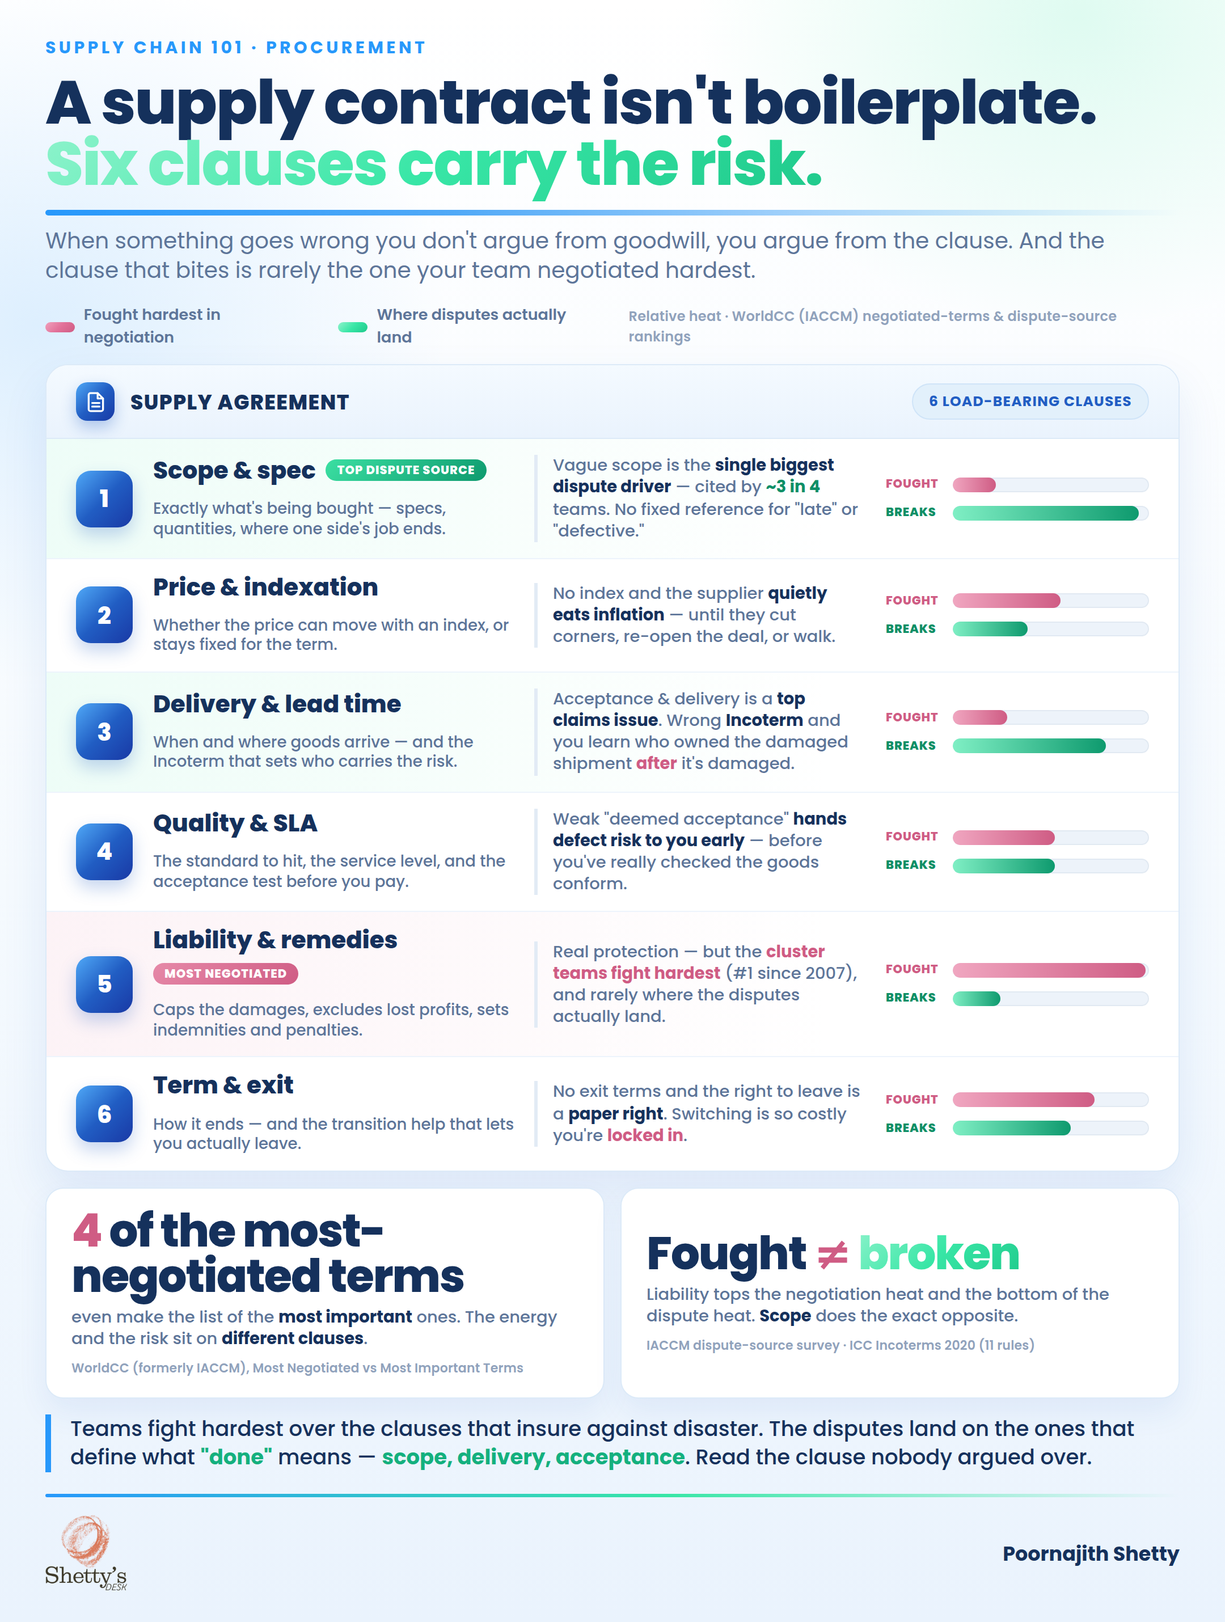
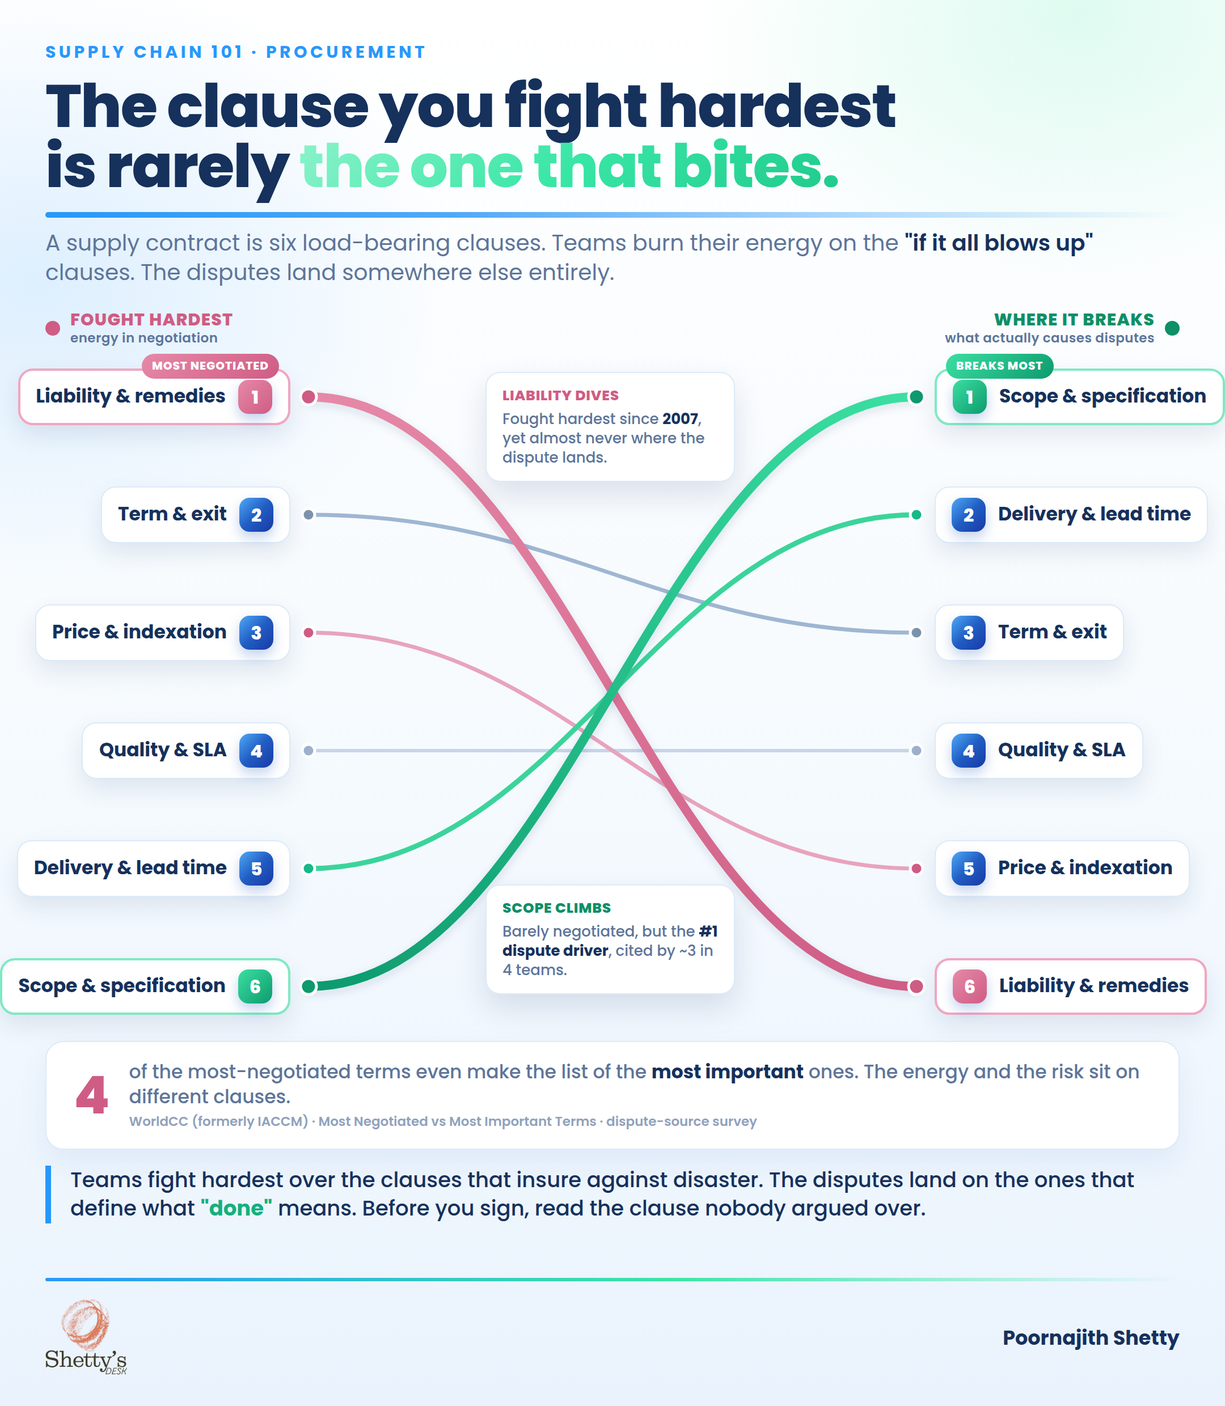
101 (W27) supply-contract-clauses: redesign visual as a slope diagram
Replace the table-style clause card with a slope/bump diagram: clauses
ranked by negotiation energy (left) vs dispute frequency (right), with
crossing connectors. Liability dives top-to-bottom; Scope climbs
bottom-to-top, making the negotiate-vs-dispute mismatch the visual hero.
Tightened canvas height to remove dead whitespace.

Claude-Session: https://claude.ai/code/session_01Fh9kTdpkMjiBvBr1iVa98w

Changed region(s): [[0.0, 0.0, 1.0, 0.9935]]

diff --git a/infographic-setup/renderer/templates/sc101-supply-contract-clauses.html b/infographic-setup/renderer/templates/sc101-supply-contract-clauses.html
@@ -5,9 +5,10 @@
 <link rel="stylesheet" href="../assets/fonts.css">
 <!--
   Supply Chain 101 · W27 (RW02) Post 1 — "What's in a supply contract: the 6 clauses that decide the relationship"
-  Contrarian: a supply contract is not boilerplate; the clause that bites is rarely the one you negotiated hardest.
-  Hero = a 6-clause contract map. Each clause carries two heat bars — Fought (coral) vs Breaks (green) — so the
-  negotiate-vs-dispute MISMATCH is the visual. No AI-tool logo (101). Shetty's Desk brand frame, luminous on white.
+  NEW FRAME (v2): a SLOPE / bump diagram. Left axis = clauses ranked by how hard teams negotiate them;
+  right axis = clauses ranked by how often they actually cause disputes. The connectors CROSS — Liability
+  dives top→bottom (coral), Scope climbs bottom→top (green). The crossing IS the contrarian thesis.
+  No AI-tool logo (101). Shetty's Desk brand frame, luminous on white.
 -->
 <style>
   :root{
@@ -22,80 +23,65 @@
   *{margin:0;padding:0;box-sizing:border-box}
   html,body{width:1080px}
   #card{
-    width:1080px;height:1430px;position:relative;overflow:hidden;
+    width:1080px;height:1240px;position:relative;overflow:hidden;
     font-family:"Poppins",system-ui,sans-serif;color:var(--ink);
     background:
       radial-gradient(ellipse 52% 32% at 88% 1%, rgba(56,230,166,.16) 0%, transparent 60%),
       radial-gradient(ellipse 58% 38% at 3% 20%, rgba(39,152,251,.14) 0%, transparent 58%),
       linear-gradient(180deg,#FFFFFF 0%,#F5FAFE 55%,#EAF3FD 100%);
-    padding:30px 40px 24px;display:flex;flex-direction:column;
+    padding:34px 40px 24px;display:flex;flex-direction:column;
   }
   .kicker{font-size:15px;font-weight:700;letter-spacing:.18em;text-transform:uppercase;color:var(--azure)}
-  h1{font-size:54px;font-weight:800;line-height:1.0;margin-top:10px;letter-spacing:-1px;color:var(--ink)}
+  h1{font-size:53px;font-weight:800;line-height:1.0;margin-top:10px;letter-spacing:-1px;color:var(--ink)}
   h1 .g{background:var(--eco-grad);-webkit-background-clip:text;background-clip:text;color:transparent}
   .rule{height:5px;width:100%;margin:14px 0 10px;border-radius:5px;
     background:linear-gradient(90deg,var(--azure) 0%,var(--sky) 36%,rgba(80,169,247,0) 100%)}
   .sub{font-size:19.5px;font-weight:400;color:var(--muted);max-width:1000px;line-height:1.34}
   .sub b{color:var(--ink);font-weight:600}
 
-  /* legend for the two heat bars */
-  .legend{display:flex;align-items:center;gap:22px;margin-top:16px;font-size:13.5px;font-weight:600;color:var(--muted)}
-  .legend .it{display:flex;align-items:center;gap:8px}
-  .legend .sw{width:26px;height:9px;border-radius:5px}
-  .legend .sw.f{background:var(--coral-grad)} .legend .sw.b{background:var(--eco-grad)}
-  .legend .src{margin-left:auto;font-size:12px;font-weight:600;color:#90A2BC;letter-spacing:.01em}
+  /* column headers above the slope */
+  .axhead{display:flex;justify-content:space-between;margin-top:20px}
+  .axhead .ax{display:flex;align-items:center;gap:9px}
+  .axhead .ax .dot{width:13px;height:13px;border-radius:50%}
+  .axhead .ax .t{font-size:15px;font-weight:800;letter-spacing:.04em;text-transform:uppercase;line-height:1.05}
+  .axhead .ax .t small{display:block;font-size:11.5px;font-weight:600;letter-spacing:.02em;text-transform:none;color:var(--muted);margin-top:2px}
+  .axhead .lft .dot{background:var(--coral-deep)} .axhead .lft .t{color:var(--coral-deep)}
+  .axhead .rgt{text-align:right;flex-direction:row-reverse}
+  .axhead .rgt .dot{background:var(--eco-deep)} .axhead .rgt .t{color:var(--eco-deep)}
 
-  /* the contract document card */
-  .doc{margin-top:13px;background:#fff;border:1px solid var(--line);border-radius:20px;
-    box-shadow:0 18px 40px rgba(33,93,195,.10);overflow:hidden;display:flex;flex-direction:column}
-  .dochead{display:flex;align-items:center;gap:14px;padding:15px 26px;
-    background:linear-gradient(180deg,#F4FAFF,#EAF3FD);border-bottom:1px solid var(--line)}
-  .dochead .fi{width:34px;height:34px;border-radius:10px;background:var(--blue-grad);flex:0 0 auto;
-    display:flex;align-items:center;justify-content:center;box-shadow:0 6px 13px rgba(33,93,195,.30)}
-  .dochead .fi svg{width:19px;height:19px;color:#fff}
-  .dochead .dt{font-size:18px;font-weight:800;letter-spacing:.04em;text-transform:uppercase;color:var(--ink)}
-  .dochead .dtag{margin-left:auto;font-size:12.5px;font-weight:700;letter-spacing:.05em;text-transform:uppercase;
-    color:var(--deep);background:var(--tint);border:1px solid #CFE4F8;border-radius:999px;padding:6px 14px}
+  /* slope diagram */
+  .slope{position:relative;width:1000px;height:600px;margin-top:6px}
+  .slope svg{position:absolute;inset:0;width:100%;height:100%;overflow:visible}
+  .node{position:absolute;height:50px;display:flex;align-items:center;gap:11px;
+    background:#fff;border:1px solid var(--line);border-radius:13px;padding:0 14px;
+    box-shadow:0 9px 20px rgba(20,50,100,.10);transform:translateY(-50%)}
+  .node.L{justify-content:flex-end;text-align:right}
+  .node .rk{width:30px;height:30px;border-radius:9px;flex:0 0 auto;display:flex;align-items:center;justify-content:center;
+    font-size:16px;font-weight:800;color:#fff;background:var(--blue-grad);box-shadow:0 5px 11px rgba(33,93,195,.28)}
+  .node .nm{font-size:16.5px;font-weight:700;color:var(--ink);line-height:1.05;white-space:nowrap}
+  .node.hot{border-width:2px}
+  .node.coral{border-color:#F0A6C0} .node.coral .rk{background:linear-gradient(135deg,#E689A8,#cf5c84)}
+  .node.green{border-color:#7FE9C2} .node.green .rk{background:linear-gradient(135deg,#3BDFA2,#0E9A6E)}
+  .node .tag{position:absolute;top:-15px;font-size:10px;font-weight:800;letter-spacing:.05em;text-transform:uppercase;
+    padding:3px 9px;border-radius:999px;color:#fff;white-space:nowrap}
+  .node.coral .tag{background:linear-gradient(135deg,#E689A8,#cf5c84);right:8px}
+  .node.green .tag{background:linear-gradient(135deg,#3BDFA2,#0E9A6E);left:8px}
 
-  .row{display:grid;grid-template-columns:50px 1.42fr 1.30fr 232px;align-items:center;gap:18px;
-    padding:14px 26px;border-bottom:1px solid #EDF4FC;position:relative}
-  .row:last-child{border-bottom:none}
-  .row.hot-b{background:linear-gradient(90deg,rgba(56,230,166,.085),rgba(56,230,166,0) 70%)}
-  .row.hot-f{background:linear-gradient(90deg,rgba(226,113,153,.085),rgba(226,113,153,0) 70%)}
+  /* story callout chips sitting near the crossing */
+  .chip{position:absolute;width:220px;background:#fff;border:1px solid var(--line);border-radius:13px;
+    box-shadow:0 12px 26px rgba(20,50,100,.13);padding:11px 14px;z-index:6}
+  .chip .ch{font-size:12.5px;font-weight:800;letter-spacing:.03em;text-transform:uppercase;margin-bottom:3px}
+  .chip p{font-size:13px;font-weight:500;color:var(--muted);line-height:1.32}
+  .chip p b{color:var(--ink);font-weight:700}
+  .chip.c .ch{color:var(--coral-deep)} .chip.g .ch{color:var(--eco-deep)}
 
-  .sec{width:50px;height:50px;border-radius:13px;display:flex;align-items:center;justify-content:center;
-    font-size:21px;font-weight:800;color:#fff;background:var(--blue-grad);box-shadow:0 7px 15px rgba(33,93,195,.26)}
-  .nm{font-size:21px;font-weight:800;color:var(--ink);line-height:1.05;display:flex;align-items:center;gap:9px;flex-wrap:wrap}
-  .nm .fn{display:block;font-size:13.8px;font-weight:500;color:var(--muted);margin-top:5px;line-height:1.28;letter-spacing:0}
-  .pill{font-size:10.5px;font-weight:800;letter-spacing:.05em;text-transform:uppercase;border-radius:999px;
-    padding:4px 10px;white-space:nowrap}
-  .pill.f{color:#fff;background:linear-gradient(135deg,#E689A8,#cf5c84)}
-  .pill.b{color:#fff;background:linear-gradient(135deg,#3BDFA2,#0E9A6E)}
-
-  .bite{font-size:14.5px;font-weight:500;color:var(--muted);line-height:1.32;padding-left:13px;
-    border-left:3px solid #E2EBF5}
-  .bite b{color:var(--ink);font-weight:700} .bite .px{color:var(--coral-deep);font-weight:700}
-  .bite .gx{color:var(--eco-deep);font-weight:700}
-
-  .meters{display:flex;flex-direction:column;gap:9px}
-  .meter{display:flex;align-items:center;gap:9px}
-  .meter .ml{font-size:10.5px;font-weight:800;letter-spacing:.04em;text-transform:uppercase;width:50px;flex:none}
-  .meter.f .ml{color:var(--coral-deep)} .meter.b .ml{color:var(--eco-deep)}
-  .track{flex:1;height:13px;border-radius:7px;background:#EDF3FA;overflow:hidden;box-shadow:inset 0 0 0 1px rgba(20,50,100,.05)}
-  .fill{height:100%;border-radius:7px}
-  .fill.f{background:linear-gradient(90deg,#F0A6C0,#cf5c84)}
-  .fill.b{background:linear-gradient(90deg,#7FEFC4,#0E9A6E)}
-
-  /* the contrarian payoff band */
-  .payoff{margin-top:14px;display:grid;grid-template-columns:1fr 1fr;gap:14px}
-  .stat{background:#fff;border:1px solid var(--line);border-radius:16px;padding:17px 22px;
-    box-shadow:0 12px 26px rgba(33,93,195,.08);display:flex;flex-direction:column;justify-content:center}
-  .stat .big{font-size:40px;font-weight:800;line-height:1;letter-spacing:-1px;color:var(--ink)}
-  .stat .big .g{background:var(--eco-grad);-webkit-background-clip:text;background-clip:text;color:transparent}
-  .stat .big .c{color:var(--coral-deep)}
-  .stat .cap{font-size:14.5px;font-weight:500;color:var(--muted);line-height:1.3;margin-top:7px}
-  .stat .cap b{color:var(--ink);font-weight:700}
-  .stat .src{font-size:11px;font-weight:600;color:#90A2BC;margin-top:8px;letter-spacing:.01em}
+  /* stat + insight */
+  .stat{margin-top:8px;display:flex;align-items:center;gap:18px;background:#fff;border:1px solid var(--line);
+    border-radius:16px;padding:16px 24px;box-shadow:0 12px 26px rgba(33,93,195,.08)}
+  .stat .big{font-size:46px;font-weight:800;line-height:1;letter-spacing:-1px;color:var(--coral-deep);flex:0 0 auto}
+  .stat .tx{font-size:16.5px;font-weight:500;color:var(--muted);line-height:1.3}
+  .stat .tx b{color:var(--ink);font-weight:700}
+  .stat .src{display:block;font-size:11.5px;font-weight:600;color:#90A2BC;margin-top:4px}
 
   .insight{margin-top:14px;font-size:18.5px;font-weight:500;color:var(--ink);line-height:1.38;padding-left:17px;
     border-left:5px solid var(--azure)}
@@ -111,104 +97,24 @@
 <body>
 <div id="card">
   <div class="kicker">Supply Chain 101 · Procurement</div>
-  <h1>A supply contract isn't boilerplate.<br><span class="g">Six clauses carry the risk.</span></h1>
+  <h1>The clause you fight hardest<br>is rarely <span class="g">the one that bites.</span></h1>
   <div class="rule"></div>
-  <div class="sub">When something goes wrong you don't argue from goodwill, you argue from the clause. And the clause that bites is rarely the one your team negotiated hardest.</div>
+  <div class="sub">A supply contract is six load-bearing clauses. Teams burn their energy on the <b>"if it all blows up"</b> clauses. The disputes land somewhere else entirely.</div>
 
-  <div class="legend">
-    <div class="it"><span class="sw f"></span>Fought hardest in negotiation</div>
-    <div class="it"><span class="sw b"></span>Where disputes actually land</div>
-    <span class="src">Relative heat · WorldCC (IACCM) negotiated-terms &amp; dispute-source rankings</span>
+  <div class="axhead">
+    <div class="ax lft"><span class="dot"></span><span class="t">Fought hardest<small>energy in negotiation</small></span></div>
+    <div class="ax rgt"><span class="dot"></span><span class="t">Where it breaks<small>what actually causes disputes</small></span></div>
   </div>
 
-  <div class="doc">
-    <div class="dochead">
-      <span class="fi"><svg viewBox="0 0 24 24" fill="none" stroke="currentColor" stroke-width="2.1" stroke-linecap="round" stroke-linejoin="round"><path d="M14 2H6a2 2 0 0 0-2 2v16a2 2 0 0 0 2 2h12a2 2 0 0 0 2-2V8z"/><path d="M14 2v6h6"/><path d="M8 13h8"/><path d="M8 17h8"/></svg></span>
-      <span class="dt">Supply Agreement</span>
-      <span class="dtag">6 load-bearing clauses</span>
-    </div>
+  <div class="slope" id="slope"></div>
 
-    <div class="row hot-b">
-      <div class="sec">1</div>
-      <div class="nm">Scope &amp; spec <span class="pill b">Top dispute source</span>
-        <span class="fn">Exactly what's being bought — specs, quantities, where one side's job ends.</span></div>
-      <div class="bite">Vague scope is the <b>single biggest dispute driver</b> — cited by <span class="gx">~3 in 4</span> teams. No fixed reference for "late" or "defective."</div>
-      <div class="meters">
-        <div class="meter f"><span class="ml">Fought</span><div class="track"><div class="fill f" style="width:22%"></div></div></div>
-        <div class="meter b"><span class="ml">Breaks</span><div class="track"><div class="fill b" style="width:95%"></div></div></div>
-      </div>
-    </div>
-
-    <div class="row">
-      <div class="sec">2</div>
-      <div class="nm">Price &amp; indexation
-        <span class="fn">Whether the price can move with an index, or stays fixed for the term.</span></div>
-      <div class="bite">No index and the supplier <b>quietly eats inflation</b> — until they cut corners, re-open the deal, or walk.</div>
-      <div class="meters">
-        <div class="meter f"><span class="ml">Fought</span><div class="track"><div class="fill f" style="width:55%"></div></div></div>
-        <div class="meter b"><span class="ml">Breaks</span><div class="track"><div class="fill b" style="width:38%"></div></div></div>
-      </div>
-    </div>
-
-    <div class="row hot-b">
-      <div class="sec">3</div>
-      <div class="nm">Delivery &amp; lead time
-        <span class="fn">When and where goods arrive — and the Incoterm that sets who carries the risk.</span></div>
-      <div class="bite">Acceptance &amp; delivery is a <b>top claims issue</b>. Wrong <b>Incoterm</b> and you learn who owned the damaged shipment <span class="px">after</span> it's damaged.</div>
-      <div class="meters">
-        <div class="meter f"><span class="ml">Fought</span><div class="track"><div class="fill f" style="width:28%"></div></div></div>
-        <div class="meter b"><span class="ml">Breaks</span><div class="track"><div class="fill b" style="width:78%"></div></div></div>
-      </div>
-    </div>
-
-    <div class="row">
-      <div class="sec">4</div>
-      <div class="nm">Quality &amp; SLA
-        <span class="fn">The standard to hit, the service level, and the acceptance test before you pay.</span></div>
-      <div class="bite">Weak "deemed acceptance" <b>hands defect risk to you early</b> — before you've really checked the goods conform.</div>
-      <div class="meters">
-        <div class="meter f"><span class="ml">Fought</span><div class="track"><div class="fill f" style="width:52%"></div></div></div>
-        <div class="meter b"><span class="ml">Breaks</span><div class="track"><div class="fill b" style="width:52%"></div></div></div>
-      </div>
-    </div>
-
-    <div class="row hot-f">
-      <div class="sec">5</div>
-      <div class="nm">Liability &amp; remedies <span class="pill f">Most negotiated</span>
-        <span class="fn">Caps the damages, excludes lost profits, sets indemnities and penalties.</span></div>
-      <div class="bite">Real protection — but the <span class="px">cluster teams fight hardest</span> (#1 since 2007), and rarely where the disputes actually land.</div>
-      <div class="meters">
-        <div class="meter f"><span class="ml">Fought</span><div class="track"><div class="fill f" style="width:98%"></div></div></div>
-        <div class="meter b"><span class="ml">Breaks</span><div class="track"><div class="fill b" style="width:24%"></div></div></div>
-      </div>
-    </div>
-
-    <div class="row">
-      <div class="sec">6</div>
-      <div class="nm">Term &amp; exit
-        <span class="fn">How it ends — and the transition help that lets you actually leave.</span></div>
-      <div class="bite">No exit terms and the right to leave is a <b>paper right</b>. Switching is so costly you're <span class="px">locked in</span>.</div>
-      <div class="meters">
-        <div class="meter f"><span class="ml">Fought</span><div class="track"><div class="fill f" style="width:72%"></div></div></div>
-        <div class="meter b"><span class="ml">Breaks</span><div class="track"><div class="fill b" style="width:60%"></div></div></div>
-      </div>
-    </div>
+  <div class="stat">
+    <span class="big">4</span>
+    <span class="tx">of the most-negotiated terms even make the list of the <b>most important</b> ones. The energy and the risk sit on different clauses.
+      <span class="src">WorldCC (formerly IACCM) · Most Negotiated vs Most Important Terms · dispute-source survey</span></span>
   </div>
 
-  <div class="payoff">
-    <div class="stat">
-      <div class="big"><span class="c">4</span> of the most-negotiated terms</div>
-      <div class="cap">even make the list of the <b>most important</b> ones. The energy and the risk sit on <b>different clauses</b>.</div>
-      <div class="src">WorldCC (formerly IACCM), Most Negotiated vs Most Important Terms</div>
-    </div>
-    <div class="stat">
-      <div class="big">Fought <span class="c">≠</span> <span class="g">broken</span></div>
-      <div class="cap">Liability tops the negotiation heat and the bottom of the dispute heat. <b>Scope</b> does the exact opposite.</div>
-      <div class="src">IACCM dispute-source survey · ICC Incoterms 2020 (11 rules)</div>
-    </div>
-  </div>
-
-  <div class="insight">Teams fight hardest over the clauses that insure against disaster. The disputes land on the ones that define what <b>"done"</b> means — <b>scope, delivery, acceptance</b>. Read the clause nobody argued over.</div>
+  <div class="insight">Teams fight hardest over the clauses that insure against disaster. The disputes land on the ones that define what <b>"done"</b> means. Before you sign, read the clause nobody argued over.</div>
 
   <div class="footrule"></div>
   <div class="foot">
@@ -216,5 +122,96 @@
     <div class="sig">Poornajith Shetty</div>
   </div>
 </div>
+
+<script>
+(function(){
+  // L = rank by negotiation energy (1 = fought hardest), R = rank by dispute frequency (1 = breaks most)
+  const clauses=[
+    {nm:'Liability & remedies', L:1, R:6, kind:'coral', tag:'Most negotiated'},
+    {nm:'Term & exit',          L:2, R:3, kind:'mid'},
+    {nm:'Price & indexation',   L:3, R:5, kind:'fade-c'},
+    {nm:'Quality & SLA',        L:4, R:4, kind:'flat'},
+    {nm:'Delivery & lead time', L:5, R:2, kind:'rise-g'},
+    {nm:'Scope & specification',L:6, R:1, kind:'green', tag:'Breaks most'},
+  ];
+  const W=1000, H=600;
+  const Lx=232, Rx=768;          // inner ends of the connector lines (where nodes attach)
+  const topY=40, rowH=(H-2*topY)/5;
+  const y=r=>topY+(r-1)*rowH;
+
+  const style={
+    coral:{stroke:'url(#gcoral)',  w:8, dot:'#cf5c84', glow:true},
+    green:{stroke:'url(#ggreen)',  w:8, dot:'#0E9A6E', glow:true},
+    'rise-g':{stroke:'#3BD49B',    w:4.5, dot:'#16B98A'},
+    'fade-c':{stroke:'#E9A3BC',    w:3.5, dot:'#cf5c84'},
+    mid:{stroke:'#9FB6D2',         w:3.5, dot:'#7C93AD'},
+    flat:{stroke:'#C7D5E8',        w:3,   dot:'#9DB1CC'},
+  };
+
+  const slope=document.getElementById('slope');
+  const NS='http://www.w3.org/2000/svg';
+  const svg=document.createElementNS(NS,'svg');svg.setAttribute('viewBox','0 0 '+W+' '+H);
+  svg.innerHTML=`<defs>
+    <linearGradient id="gcoral" x1="0" y1="0" x2="1" y2="1">
+      <stop offset="0" stop-color="#E689A8"/><stop offset="1" stop-color="#cf5c84"/></linearGradient>
+    <linearGradient id="ggreen" x1="0" y1="1" x2="1" y2="0">
+      <stop offset="0" stop-color="#0E9A6E"/><stop offset="1" stop-color="#3BDFA2"/></linearGradient>
+    <filter id="soft" x="-20%" y="-20%" width="140%" height="140%">
+      <feDropShadow dx="0" dy="3" stdDeviation="4" flood-color="#1a2f5a" flood-opacity="0.12"/></filter>
+  </defs>`;
+  slope.appendChild(svg);
+
+  // draw connectors (heroes last so they sit on top)
+  const order=[...clauses].sort((a,b)=>{
+    const w=k=>(k==='coral'||k==='green')?2:(k==='rise-g'||k==='fade-c')?1:0; return w(a.kind)-w(b.kind);});
+  order.forEach(c=>{
+    const s=style[c.kind]; const y0=y(c.L), y1=y(c.R);
+    const dx=(Rx-Lx)*0.42;
+    const d=`M ${Lx} ${y0} C ${Lx+dx} ${y0} ${Rx-dx} ${y1} ${Rx} ${y1}`;
+    const p=document.createElementNS(NS,'path');
+    p.setAttribute('d',d);p.setAttribute('fill','none');
+    p.setAttribute('stroke',s.stroke);p.setAttribute('stroke-width',s.w);p.setAttribute('stroke-linecap','round');
+    if(s.glow)p.setAttribute('filter','url(#soft)');
+    svg.appendChild(p);
+    [[Lx,y0],[Rx,y1]].forEach(pt=>{
+      const ci=document.createElementNS(NS,'circle');
+      ci.setAttribute('cx',pt[0]);ci.setAttribute('cy',pt[1]);ci.setAttribute('r',s.glow?7:5.5);
+      ci.setAttribute('fill',s.dot);ci.setAttribute('stroke','#fff');ci.setAttribute('stroke-width',2.5);
+      svg.appendChild(ci);
+    });
+  });
+
+  // place node pills on both axes
+  const scale=H/600; // svg viewBox→px (square-ish; slope is 1000x600 css too)
+  function pill(side,c,rank){
+    const n=document.createElement('div');
+    const cls=c.kind==='coral'?'coral hot':c.kind==='green'?'green hot':'';
+    n.className='node '+side+' '+cls;
+    const yy=y(rank);
+    n.style.top=yy+'px';
+    if(side==='L'){n.style.right=(W-Lx+16)+'px';} else {n.style.left=(Rx+16)+'px';}
+    const rkSpan='<span class="rk">'+rank+'</span>';
+    const nmSpan='<span class="nm">'+c.nm+'</span>';
+    n.innerHTML=(side==='L')?(nmSpan+rkSpan):(rkSpan+nmSpan);
+    if(c.tag && ((side==='L'&&c.kind==='coral')||(side==='R'&&c.kind==='green'))){
+      const t=document.createElement('span');t.className='tag';t.textContent=c.tag;n.appendChild(t);
+    }
+    slope.appendChild(n);
+  }
+  clauses.forEach(c=>{pill('L',c,c.L);pill('R',c,c.R);});
+
+  // story chips near the crossing
+  function chip(kind,leftPx,topPx,head,html){
+    const d=document.createElement('div');d.className='chip '+kind;
+    d.style.left=leftPx+'px';d.style.top=topPx+'px';
+    d.innerHTML='<div class="ch">'+head+'</div><p>'+html+'</p>';
+    slope.appendChild(d);
+  }
+  chip('c', 388, 18, 'Liability dives',
+    'Fought hardest since <b>2007</b>, yet almost never where the dispute lands.');
+  chip('g', 388, 470, 'Scope climbs',
+    'Barely negotiated, but the <b>#1 dispute driver</b>, cited by ~3 in 4 teams.');
+})();
+</script>
 </body>
 </html>
